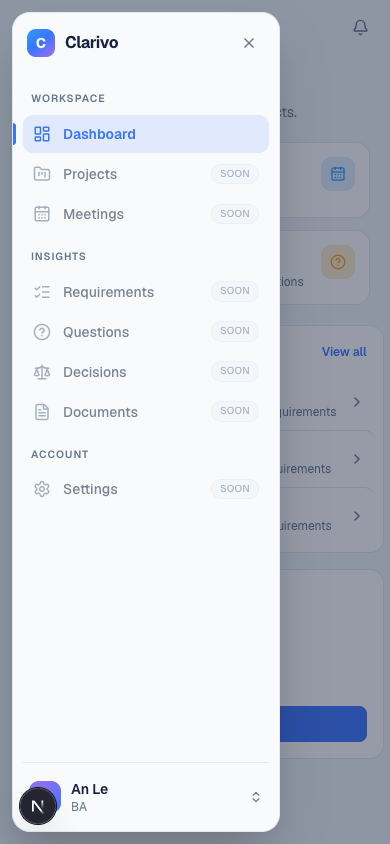
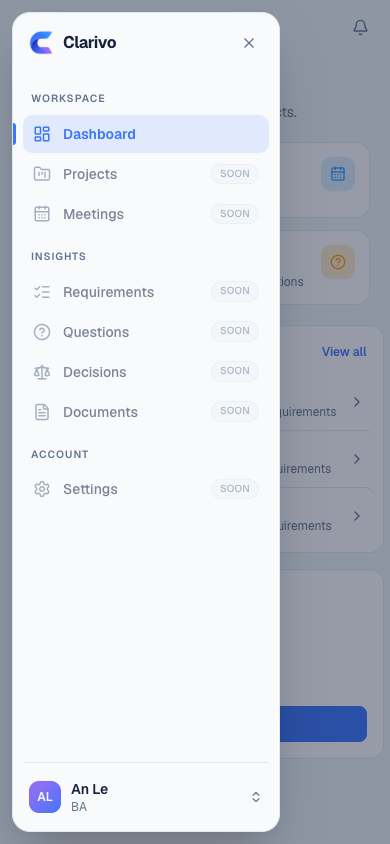
feat(add-app-shell): use the Clarivo mark in the sidebar brand
Replaces the placeholder gradient C with public/images/clarivo-mark.png, the
same asset the login page uses. clarivo-logo.png is a stacked lockup on a white
plate, so it cannot sit in a 60px header row. Verify screenshots and baselines
refreshed (and captured with the Next dev-tools overlay hidden, which had been
covering the sidebar corner in the earlier shots).

Changed region(s): [[0.0615, 0.0308, 0.3077, 0.0924], [0.0308, 0.9242, 0.1538, 0.9858]]

diff --git a/frontend/components/nav/brand.tsx b/frontend/components/nav/brand.tsx
@@ -1,14 +1,23 @@
+import Image from "next/image";
 import { cn } from "@/lib/utils";
 
+/**
+ * The horizontal lockup: the real mark plus a text wordmark. public/images/
+ * clarivo-logo.png is a *stacked* lockup on a white plate, so it can't sit in a
+ * 60px header row — the mark asset is the one that composes, same as the login
+ * page does.
+ */
 export function Brand({ wordmark = true, className }: { wordmark?: boolean; className?: string }) {
   return (
-    <span className={cn("flex min-w-0 items-center gap-2.5", className)}>
-      <span
-        aria-hidden
-        className="grid size-7 shrink-0 place-items-center rounded-[9px] bg-linear-140 from-chart-2 via-chart-1 to-chart-3 text-sm font-extrabold text-primary-foreground"
-      >
-        C
-      </span>
+    <span className={cn("flex min-w-0 items-center gap-2", className)}>
+      <Image
+        src="/images/clarivo-mark.png"
+        alt="Clarivo"
+        width={190}
+        height={190}
+        priority
+        className="size-7 shrink-0"
+      />
       {wordmark && (
         <span className="truncate text-base font-bold tracking-tight">Clarivo</span>
       )}

diff --git a/devspec/archive/add-app-shell/ui.md b/devspec/archive/add-app-shell/ui.md
@@ -135,6 +135,7 @@ All data is **static sample data**; no endpoint exists for any of it yet.
 
 Existing, reuse as-is:
 
+- `public/images/clarivo-mark.png` — the brand mark in the sidebar header and the mobile drawer, beside a text wordmark. `clarivo-logo.png` is a *stacked* lockup on a white plate and does not fit a 60px header row; the login page uses the mark asset the same way.
 - `frontend/components/ui/button.tsx:Button` — `View details` (default), `Retry` (`variant="outline"`), every icon button (`variant="ghost" size="icon"`).
 - `frontend/lib/utils.ts:cn` — every conditional class.
 - `frontend/stores/auth.ts:useUser` / `useAuthStore` — name, role and email for the footer; `status` for the loading/redirect gate.
